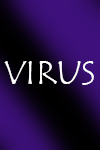
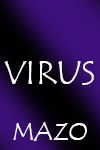
Cambios de media noche

Changed region(s): [[0.12, 0.8, 0.87, 0.96]]

diff --git a/src/virusclient/style/VistasCss.css b/src/virusclient/style/VistasCss.css
@@ -86,3 +86,11 @@ and open the template in the editor.
     -fx-background-radius: 10px;
     -fx-font: bold 20pt "Bahnschrift"
 }
+
+#maso{
+    -fx-image:url("../resources/cartas/Reverso.png");
+}
+
+#desecho{
+    -fx-image:url("../resources/cartas/Desecho.png");
+}

diff --git a/src/virusclient/controller/PartidaController.java b/src/virusclient/controller/PartidaController.java
@@ -31,6 +31,7 @@ import virusclient.model.Jugador;
 import virusclient.util.AppContext;
 import virusclient.util.ComunicadorConRespuesta;
 import virusclient.util.ComunicadorSinRespuesta;
+import virusclient.util.Respuesta;
 
 /**
  * FXML Controller class
@@ -64,7 +65,7 @@ public class PartidaController extends Rechargeable implements Initializable {
     private List<Jugador> listJugadores;
     private Carta cartaJugadaActual;
     private final List<VBox> campoJuego = new ArrayList();
-    private final Jugador actual = (Jugador) AppContext.getInstance().get("jugador");
+    private final Jugador jugadorResidente = (Jugador) AppContext.getInstance().get("jugador");
     @FXML
     private FlowPane flowMesaContrincante;
     @FXML
@@ -91,37 +92,12 @@ public class PartidaController extends Rechargeable implements Initializable {
 
     }
 
-    public void eventoColocarCartasDeJugador() {
-//        campoJuego.forEach(act -> {
-//            act.setOnDragOver((DragEvent event) -> {
-//                event.acceptTransferModes(TransferMode.COPY_OR_MOVE);
-//                event.consume();
-//            });
-//        });
-//        
-    }
-//Eliminar las cartas despues de la lista de cartas de jugador
-
-    public void eliminarCartaDeMazo() {
-//        listJugadores.forEach(jugador -> {
-//            if (jugador.getNombre().equals(actual.getNombre())) {
-//                for (int x = 0; x < jugador.verLista().size(); x++) {
-//                    if (jugador.verLista().get(x).getTipo().equals(cartaJugadaActual.getTipo()) && jugador.verLista().get(x).getColor().equals(cartaJugadaActual.getColor())) {
-//                        jugador.verCartasTablero().add(cartaJugadaActual);
-//                        jugador.verLista().remove(x);
-//                        x = jugador.verLista().size();
-//                    }
-//                }
-//            }
-//        });
-    }
-
     public void cargarDatosInicioJuego(Actualizacion act) {
         listJugadores = new ArrayList();
         List<Jugador> jugadores = act.getlistaJugador();
         jugadores.forEach(jug -> {
-            if (jug.getNombre().equals(actual.getNombre())) {
-                actual.setCartasLogicasActuales(jug.getCartasLogicasActuales());
+            if (jug.getNombre().equals(jugadorResidente.getNombre())) {
+                jugadorResidente.setCartasLogicasActuales(jug.getCartasLogicasActuales());
             } else {
                 jug.activate();                              //Inicializa litas visuales de cartas
                 listJugadores.add(jug);
@@ -131,24 +107,23 @@ public class PartidaController extends Rechargeable implements Initializable {
     }
 
     private void actualizarGraficos() {
-        vBoxCartas.getChildren().clear();
-        hBoxJugadores.getChildren().clear();
-        actual.cargarCartasVisuales(true);
-        listJugadores.forEach(jug -> jug.cargarCartasVisuales(false));
+        jugadorResidente.refrescarCartasVisuales(true);
+        listJugadores.forEach(jug -> jug.refrescarCartasVisuales(false));
         refrescarBarraDeCartasPropias();
         refrescarBarraDeContrincantes();
     }
 
     public void refrescarBarraDeCartasPropias() {
-        actual.getCartasActuales().forEach(carta -> {
+        vBoxCartas.getChildren().clear();
+        jugadorResidente.getCartasActuales().forEach(carta -> {
             vBoxCartas.getChildren().add(carta);
         });
         vBoxCartas.getChildren().forEach(cart -> {
             cart.setOnDragDetected((MouseEvent event) -> {
-                cartaJugadaActual = (Carta)cart;
+                cartaJugadaActual = (Carta) cart;
                 Dragboard db = cart.startDragAndDrop(TransferMode.MOVE);
                 ClipboardContent content = new ClipboardContent();
-                content.putImage(((Carta)cart).getImage());
+                content.putImage(((Carta) cart).getImage());
                 content.putString("");
                 db.setContent(content);
                 event.consume();
@@ -165,7 +140,7 @@ public class PartidaController extends Rechargeable implements Initializable {
                 Dragboard db = event.getDragboard();
                 if (db.hasImage()) {
                     event.setDropCompleted(true);
-                    actual.ponerCartaEnLaMesa(cartaJugadaActual);
+                    jugadorResidente.ponerCartaEnLaMesa(cartaJugadaActual);
                     act.getChildren().add(cartaJugadaActual);
                 }
                 event.consume();
@@ -174,6 +149,7 @@ public class PartidaController extends Rechargeable implements Initializable {
     }
 
     public void refrescarBarraDeContrincantes() {
+        hBoxJugadores.getChildren().clear();
         listJugadores.forEach(jug -> {
             ImageView perfilJugador1 = new ImageView(new Image("virusclient/resources/imagenesAvatar/" + jug.getNombAvatar()));
             Label labelPerfilContricante = new Label(jug.getNombre());
@@ -181,7 +157,6 @@ public class PartidaController extends Rechargeable implements Initializable {
             labelPerfilContricante.setOnMouseClicked((MouseEvent event) -> {
                 labelContricante.setText(jug.getNombre());
                 labelContricante.setGraphic(new ImageView(new Image("virusclient/resources/imagenesAvatar/" + jug.getNombAvatar())));
-                //labelCartasContricantes.setText("Cartas Actuales:" + jug.verLista().size());
                 flowMesaContrincante.getChildren().clear();
                 flowMesaContrincante.getChildren().addAll(jug.getCartasJugadas());
             });
@@ -192,24 +167,27 @@ public class PartidaController extends Rechargeable implements Initializable {
     private void OnActionSolicitarCarta(ActionEvent event) {
         MarcoCarta resp = new ComunicadorConRespuesta().solicitarCarta();
         listJugadores.forEach(jugador -> {
-            if (jugador.getNombre().equals(actual.getNombre())) {
+            if (jugador.getNombre().equals(jugadorResidente.getNombre())) {
                 jugador.misCartas(resp);
             }
         });
         new ComunicadorSinRespuesta().ActualizarCartas(listJugadores);
     }
 
-    public void activarFuncuinesDeArrastreDeCartas(Carta carta) {
-
-    }
-
     public void cargarDatosJugador() {
         ImageView perfilJugador = new ImageView();
         Label nombre = new Label();
-        nombre.setText(actual.getNombre());
-        perfilJugador.setImage(new Image("virusclient/resources/imagenesAvatar/" + actual.getNombAvatar()));
+        nombre.setText(jugadorResidente.getNombre());
+        perfilJugador.setImage(new Image("virusclient/resources/imagenesAvatar/" + jugadorResidente.getNombAvatar()));
         nombre.setGraphic(perfilJugador);
         panelPropio.getChildren().add(nombre);
     }
 
+    @FXML
+    private void onClickMazo(MouseEvent event) {
+        MarcoCarta resp = new ComunicadorConRespuesta().solicitarCarta();
+        jugadorResidente.getCartasLogicasActuales().add(resp);
+        jugadorResidente.refrescarCartasVisuales(true);
+        refrescarBarraDeCartasPropias();
+    }
 }

diff --git a/src/virusclient/util/ComunicadorConRespuesta.java b/src/virusclient/util/ComunicadorConRespuesta.java
@@ -25,7 +25,9 @@ import virusclient.model.Peticion;
  * @author Roberth 😊
  */
 public class ComunicadorConRespuesta {
+
     private final String serverIp = (String) AppContext.getInstance().get("ServerIP");
+
     /**
      * Intenta unir al jugador a la partida actual en caso de existir una en el
      * servidor y el juego no halla iniciado aun.
@@ -169,7 +171,8 @@ public class ComunicadorConRespuesta {
             return new Respuesta(false, "Ha ocurrido un error inesperado");
         }
     }
-        public MarcoCarta solicitarCarta() {
+
+    public MarcoCarta solicitarCarta() {
         try {
             ServerSocket servSock = new ServerSocket(0);
             Thread enviardor = new Thread(() -> {  //Envia petición a servidor.
@@ -179,7 +182,6 @@ public class ComunicadorConRespuesta {
                     DataOutputStream datos = new DataOutputStream(sock.getOutputStream());
                     Peticion pet = new Peticion();
                     pet.solicitarCarta(servSock.getLocalPort());
-                    //   pet.addActualizacion(jugadores, servSock.getLocalPort());
                     String Json = new Gson().toJson(pet);
                     datos.writeUTF(Json);
                     sock.getOutputStream().close();
@@ -196,7 +198,7 @@ public class ComunicadorConRespuesta {
             DataInputStream informacion = new DataInputStream(canalComunic.getInputStream());
             String Json = informacion.readUTF();
             // Respuesta resp = new Gson().fromJson(Json, Respuesta.class);
-            MarcoCarta cart = new Gson().fromJson(Json,MarcoCarta.class);
+            MarcoCarta cart = new Gson().fromJson(Json, MarcoCarta.class);
             canalComunic.getInputStream().close();
             informacion.close();
             canalComunic.close();
@@ -204,10 +206,10 @@ public class ComunicadorConRespuesta {
             return cart;
         } catch (UnknownHostException UE) {
             Logger.getLogger(ComunicadorConRespuesta.class.getName()).log(Level.SEVERE, null, UE);
-            return new MarcoCarta("","");
+            return new MarcoCarta("", "");
         } catch (IOException IO) {
             Logger.getLogger(ComunicadorConRespuesta.class.getName()).log(Level.SEVERE, null, IO);
-            return  new MarcoCarta("","");
+            return new MarcoCarta("", "");
         }
     }
 }

diff --git a/src/virusclient/model/Jugador.java b/src/virusclient/model/Jugador.java
@@ -37,17 +37,32 @@ public class Jugador {
      * @param cartasTamañoCompleto Indica si las cartas son de tamaño completo o
      * reducido
      */
-    public void cargarCartasVisuales(boolean cartasTamañoCompleto) {
+    public void refrescarCartasVisuales(boolean cartasTamañoCompleto) {
         cartasActuales.clear();
         cartasJugadas.clear();
         cartasLogicasActuales.forEach(act -> {
             cartasActuales.add(new Carta(act.getTipo(), act.getColor(), cartasTamañoCompleto));
         });
+        cartasLogicasJugadas.forEach(cart -> {
+            cartasJugadas.add(new Carta(cart.getTipo(), cart.getColor(), cartasTamañoCompleto));
+        });
     }
-    
-    public void ponerCartaEnLaMesa(Carta cartaBuscada){
+
+    public void ponerCartaEnLaMesa(Carta cartaBuscada) {
         cartasActuales.remove(cartaBuscada);
         cartasJugadas.add(cartaBuscada);
+        refrescarCartasLogias();
+    }
+
+    public void refrescarCartasLogias() {
+        cartasLogicasActuales.clear();
+        cartasLogicasJugadas.clear();
+        cartasActuales.forEach(cart -> {
+            cartasLogicasActuales.add(new MarcoCarta(cart.getTipo(), cart.getColor()));
+        });
+        cartasJugadas.forEach(cart -> {
+            cartasLogicasJugadas.add(new MarcoCarta(cart.getTipo(), cart.getColor()));
+        });
     }
 
     public String getNombre() {

diff --git a/src/virusclient/model/Carta.java b/src/virusclient/model/Carta.java
@@ -32,11 +32,11 @@ public class Carta extends ImageView {
         this.setFitWidth(cartasTamañoCompleto ? 110 : 85);
     }
 
-    private String getColor() {
+    public String getColor() {
         return color;
     }
 
-    private String getTipo() {
+    public String getTipo() {
         return tipoCarta;
     }
 
